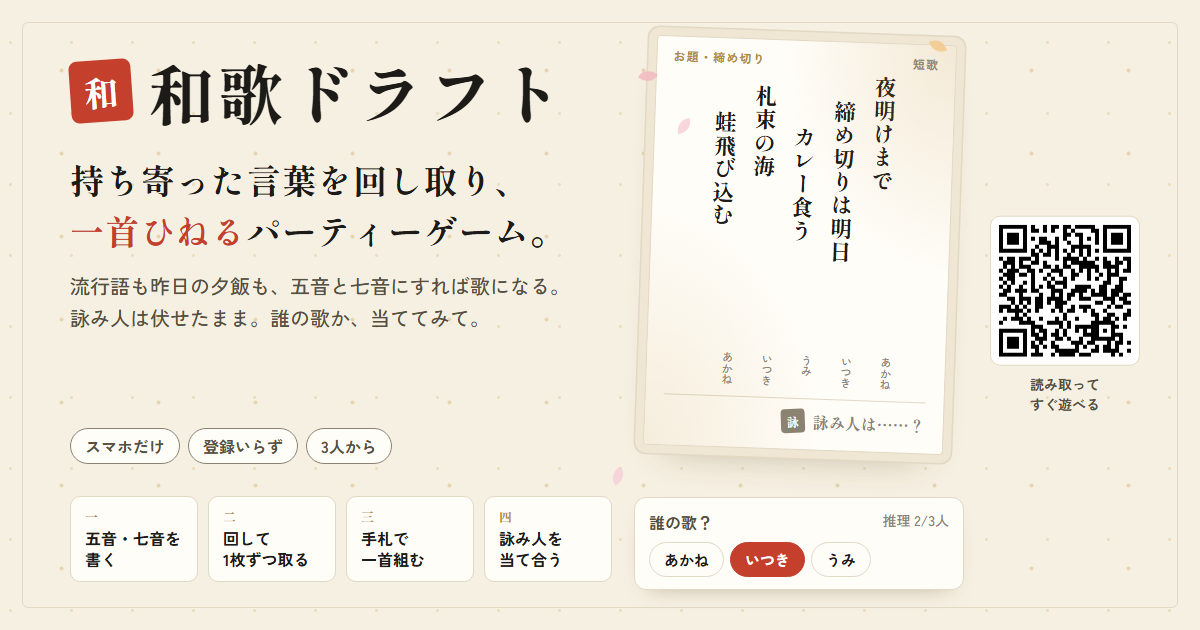
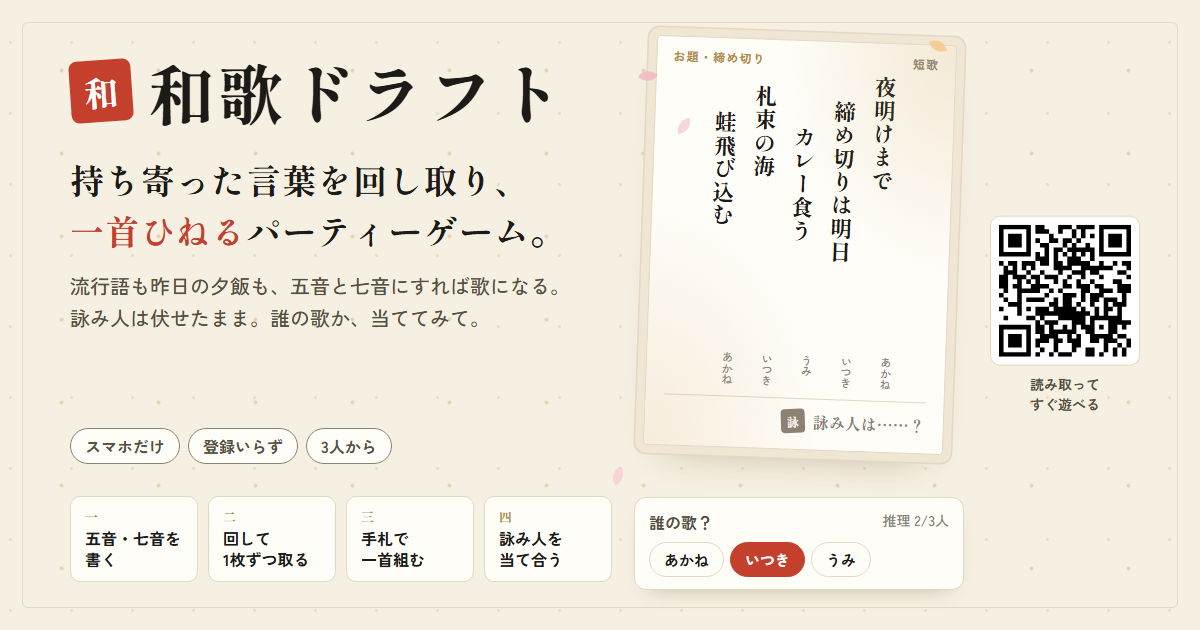
Move to wakadraft.dragonetinc.com

Changed region(s): [[0.8325, 0.3619, 0.9558, 0.573]]

diff --git a/index.html b/index.html
@@ -9,8 +9,8 @@
 <meta property="og:title" content="和歌ドラフト">
 <meta property="og:description" content="持ち寄った言葉を回し取り、一首ひねるパーティーゲーム。スマホだけ・登録いらず・3人から。">
 <meta property="og:type" content="website">
-<meta property="og:url" content="https://kageusu100-netizen.github.io/waka-draft/">
-<meta property="og:image" content="https://kageusu100-netizen.github.io/waka-draft/ogp.png">
+<meta property="og:url" content="https://wakadraft.dragonetinc.com/">
+<meta property="og:image" content="https://wakadraft.dragonetinc.com/ogp.png">
 <meta property="og:image:width" content="1200">
 <meta property="og:image:height" content="630">
 <meta property="og:locale" content="ja_JP">

diff --git a/promo/ogp.html b/promo/ogp.html
@@ -108,7 +108,7 @@
 <i class="petal" style="left:610px;top:470px;transform:rotate(-40deg);background:#f6d0d6"></i>
 
 <script>
-  const q=qrcode(0,"M"); q.addData("https://kageusu100-netizen.github.io/waka-draft/"); q.make();
+  const q=qrcode(0,"M"); q.addData("https://wakadraft.dragonetinc.com/"); q.make();
   document.getElementById("qr").innerHTML=q.createSvgTag({cellSize:4,margin:0,scalable:true});
 </script>
 </body>
